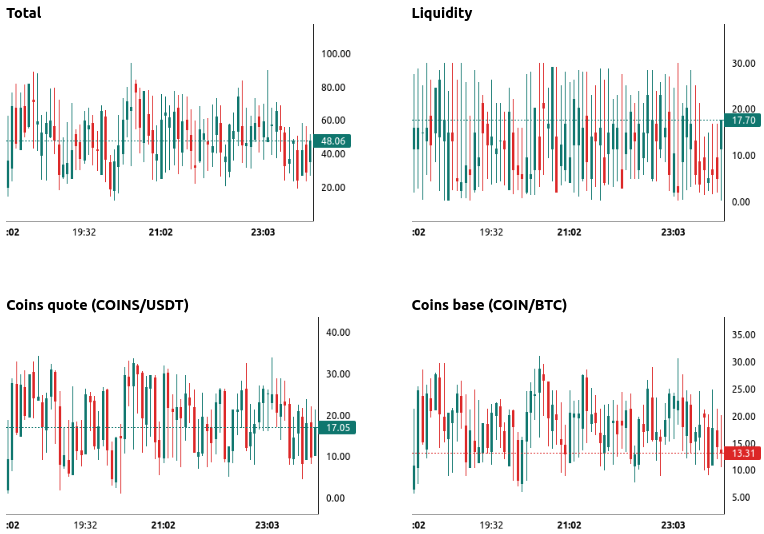
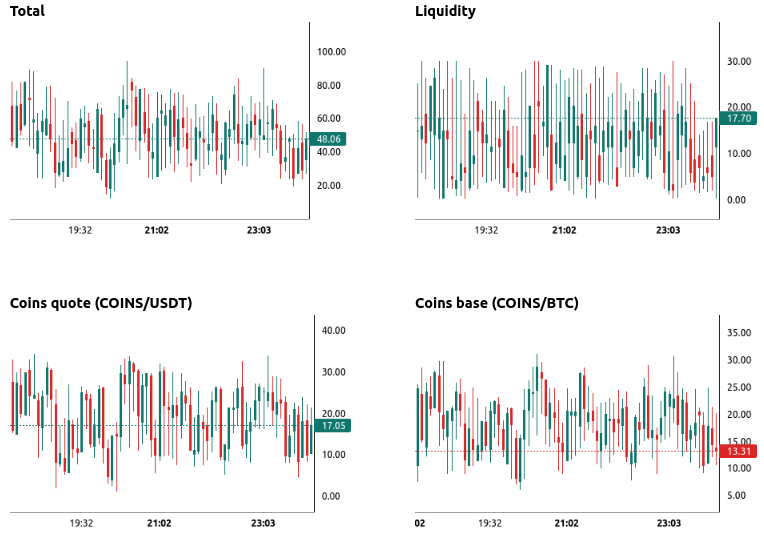
Fix reversal dialog typo

diff --git a/src/pages/app/dashboard/indicators/reversal-button/price-crash-state-history-dialog.component.tsx b/src/pages/app/dashboard/indicators/reversal-button/price-crash-state-history-dialog.component.tsx
@@ -60,7 +60,7 @@ const PriceCrashStateHistoryDialog = memo(({
       'Total',
       'Liquidity',
       `Coins quote (COINS/${exchangeConfig.quoteAsset})`,
-      `Coins base (COIN/${exchangeConfig.baseAsset})`,
+      `Coins base (COINS/${exchangeConfig.baseAsset})`,
     ],
     [exchangeConfig.quoteAsset, exchangeConfig.baseAsset],
   );
